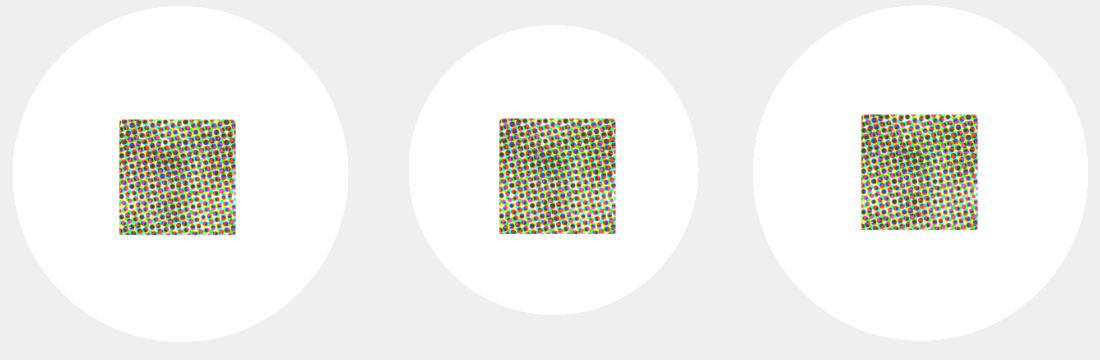
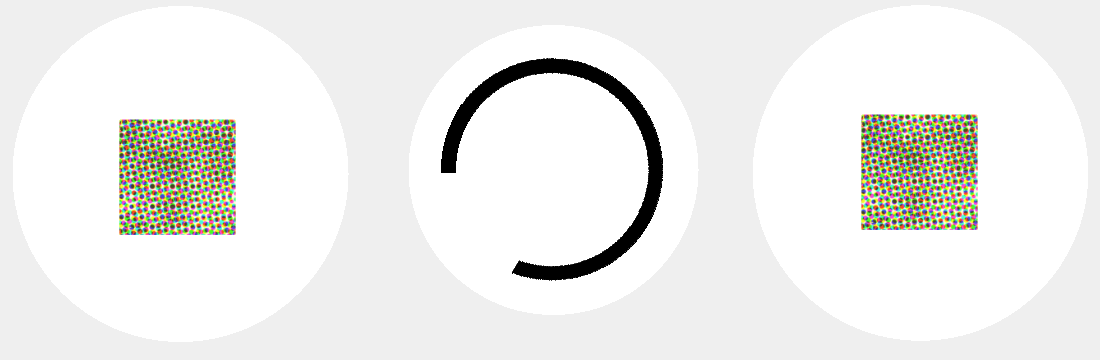
frame 9 improvements

Changed region(s): [[0.4018, 0.1528, 0.6182, 0.7944]]

diff --git a/css/style-frames.css b/css/style-frames.css
@@ -324,6 +324,13 @@
 .frame-8.back .coin-wallet .wallet-frame {
   background-image: url('../images/wallet-frames/Frame-8-Back.png');
 }
+.frame-9 .coin-wallet .encrypted {
+  position: absolute;
+  margin-left: 96px;
+  width: 25px;
+  height: 32px;
+  margin-top: -4px;
+}
 .frame-9 .coin-wallet .wallet-frame {
   background-image: url('../images/wallet-frames/Frame-9.png');
 }
@@ -378,16 +385,19 @@
 }
 .frame-9 .coin-logo {
   display: block;
-  left: 806px;
+  left: 802px;
   background-size: 100%;
   width: 235px;
   height: 235px;
-  top: 55px;
+  top: 57px;
   opacity: 0.8;
 }
 .frame-9 .coin-logo:after {
   content: '';
   display: none;
+}
+.frame-9.back .coin-wallet .coin-wallet-right {
+  display: block;
 }
 .frame-9.back .coin-wallet .wallet-frame {
   background-image: url('../images/wallet-frames/Frame-9-Back.png');

diff --git a/css/style-frames.less b/css/style-frames.less
@@ -619,11 +619,11 @@
 	.coin-logo
 	{
 		display: block;
-		left: 806px;
+		left: 802px;
 		background-size: 100%;
 		width: 235px;
 		height: 235px;
-		top: 55px;
+		top: 57px;
 		opacity: 0.8;
 
 		&:after
@@ -637,6 +637,11 @@
 	{
 		.coin-wallet
 		{
+		
+			.coin-wallet-right
+			{
+				display: block;
+			}
 			.wallet-frame
 			{
 				background-image: url('../images/wallet-frames/Frame-9-Back.png');
